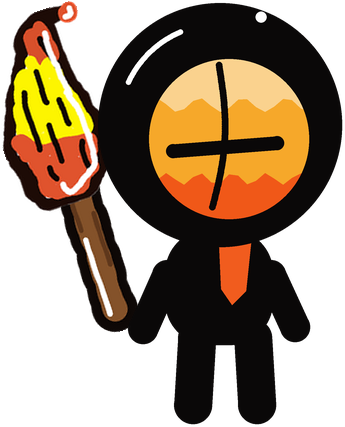
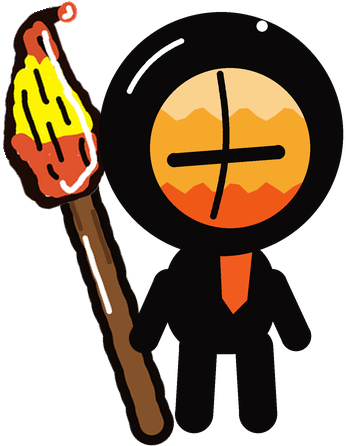
Longer brush for SUBJECT 0300 (longer handle, bigger swing reach)
Claude-Session: https://claude.ai/code/session_01VELmeQy8Zem3dZrg6v5Umm

diff --git a/game/game.js b/game/game.js
@@ -626,7 +626,7 @@ function drawGhost() {
 }
 
 // SUBJECT 0300: key 1 swings the giant brush, key 2 raises the shield, and walking leaves an ink trail
-const SWING_COOLDOWN = 0.75, SWING_DAMAGE = 3, SWING_REACH = 95, SWING_TIME = 0.24;
+const SWING_COOLDOWN = 0.75, SWING_DAMAGE = 3, SWING_REACH = 130, SWING_TIME = 0.24;
 const SHIELD_TIME = 0.6, SHIELD_COOLDOWN = 0.3, PERFECT_WINDOW = 0.2;
 const INK_DAMAGE = 1, INK_LIFE = 1, INK_STEP = 8, INK_HIT_EVERY = 0.5;
 const swing = { t: 0, cd: 0, dir: 1, done: false };
@@ -1605,7 +1605,7 @@ canvas.addEventListener('pointerdown', e => {
     const blink = invuln > 0 && Math.floor(invuln * 10) % 2 === 0;
     if (isBrush && !blink && swing.t <= 0) {
       // the little black man holds his brush behind him, leaning away from the side he faces (like in the logo)
-      const f = player.facing || 1, bh = 92, bw = bh * brushImg.width / brushImg.height;
+      const f = player.facing || 1, bh = 126, bw = bh * brushImg.width / brushImg.height;
       ctx.save();
       ctx.translate(player.x + player.w / 2 - f * player.w * 0.42, player.y + player.h * 0.8);
       ctx.rotate(-f * 0.32 + Math.sin(performance.now() / 1000 * 2.3) * 0.03);
@@ -1647,13 +1647,13 @@ canvas.addEventListener('pointerdown', e => {
     ctx.restore();
     if (isBrush && swing.t > 0) {   // the giant brush swings over his head and down in front of him
       const p = 1 - swing.t / SWING_TIME, e = p * p * (3 - 2 * p), ang = swing.dir * (-1.1 + 2.9 * e);
-      const bh = 118, bw = bh * brushImg.width / brushImg.height;
+      const bh = 162, bw = bh * brushImg.width / brushImg.height;
       ctx.save();
       ctx.translate(player.x + player.w / 2, player.y + player.h * 0.62);
       ctx.strokeStyle = '#4a63ff'; ctx.globalAlpha = 0.55 * (1 - p); ctx.lineWidth = 9; ctx.lineCap = 'round';
       ctx.beginPath();
-      if (swing.dir > 0) ctx.arc(0, 0, 84, -Math.PI / 2 - 1.1, -Math.PI / 2 + ang, false);
-      else ctx.arc(0, 0, 84, -Math.PI / 2 + ang, -Math.PI / 2 + 1.1, false);
+      if (swing.dir > 0) ctx.arc(0, 0, 115, -Math.PI / 2 - 1.1, -Math.PI / 2 + ang, false);
+      else ctx.arc(0, 0, 115, -Math.PI / 2 + ang, -Math.PI / 2 + 1.1, false);
       ctx.stroke();
       ctx.globalAlpha = 1;
       ctx.rotate(ang);
